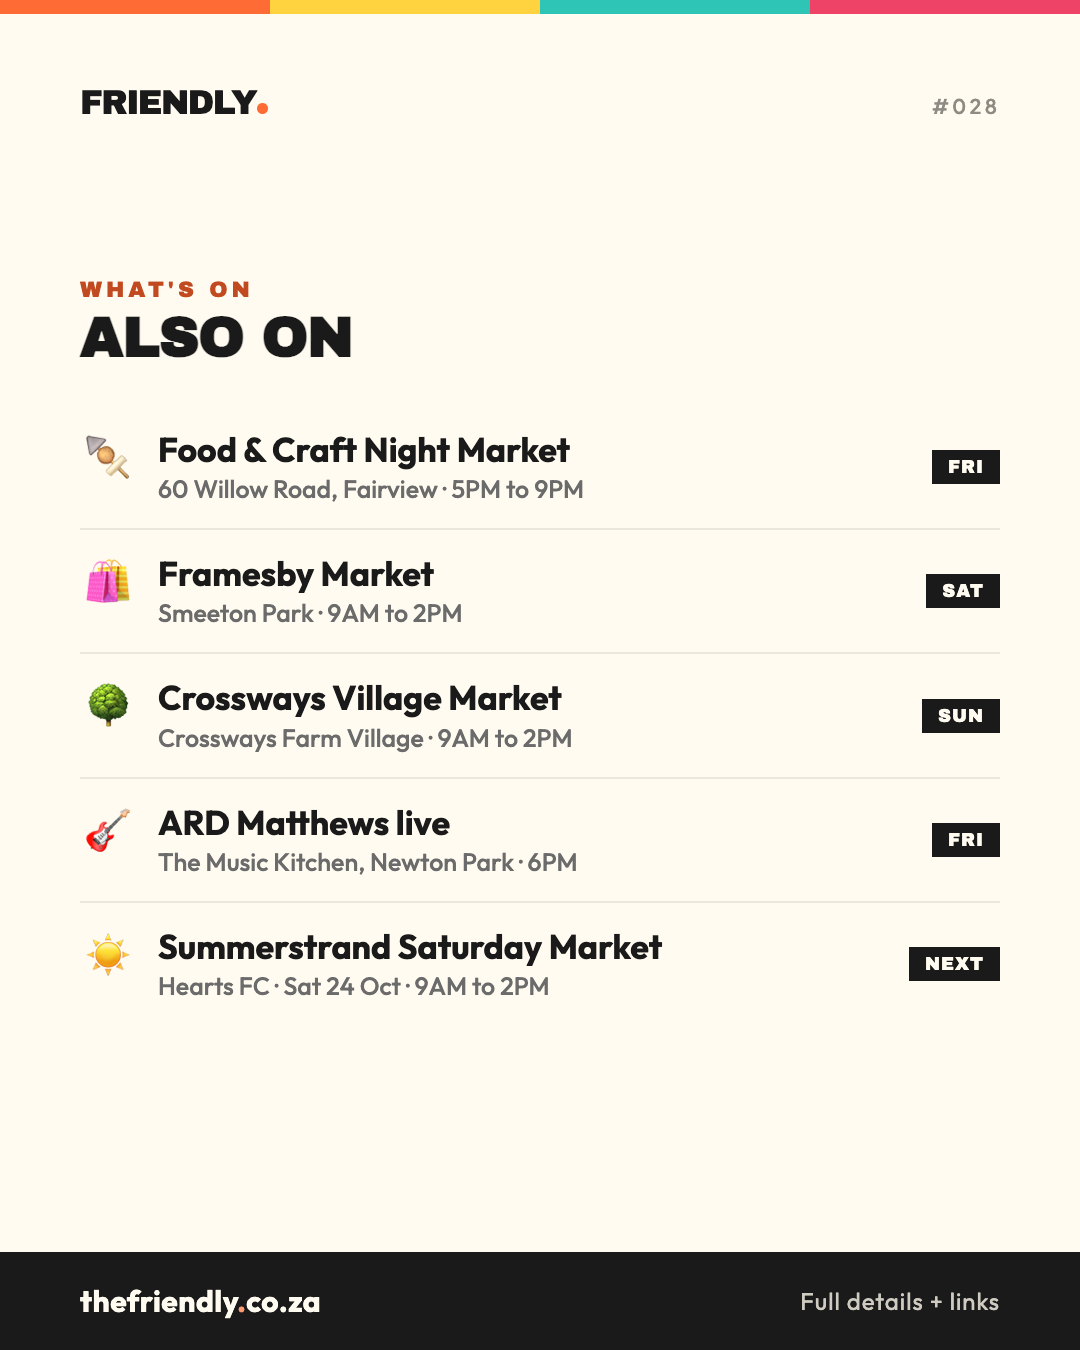
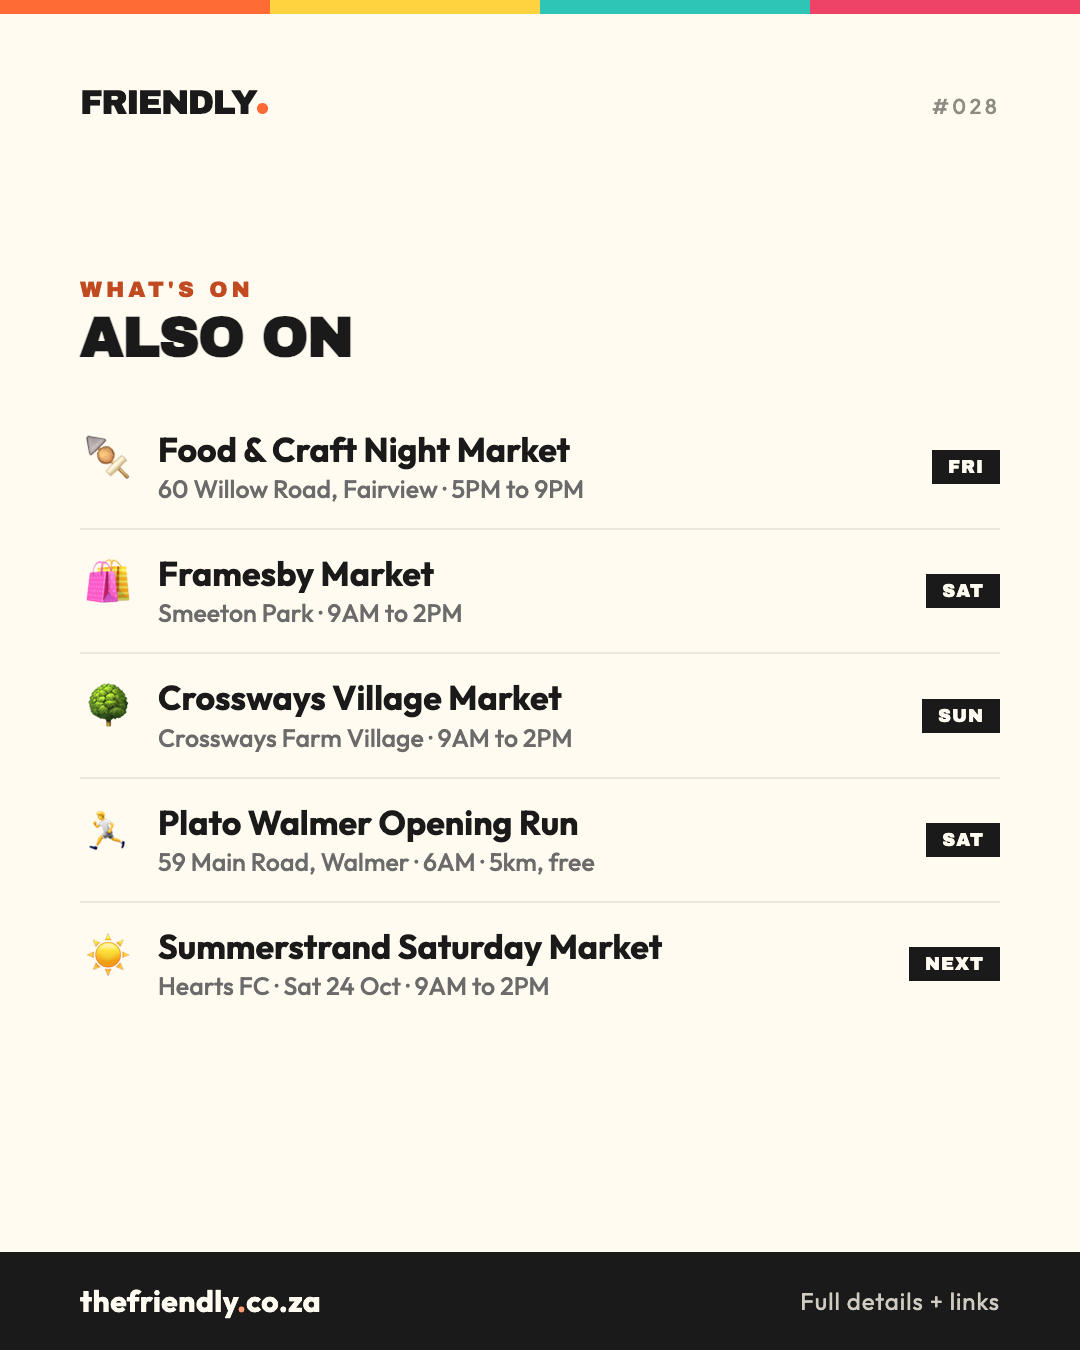
#028: add the Plato Walmer opening run and Project X
Both from Travis. Plato runs as a Saturday card, Project X as a Save The
Date with the spectator pass, since athlete entries are sold out.

Changed region(s): [[0.1528, 0.5911, 0.55, 0.6533], [0.0611, 0.5911, 0.1222, 0.6533], [0.8556, 0.5911, 0.8861, 0.6533]]

diff --git a/issue-028.html b/issue-028.html
@@ -232,7 +232,29 @@
       <span class="day-chip" style="display: inline-block; font-family: 'Archivo Black', 'Arial Black', Arial, sans-serif; font-size: 11px; letter-spacing: 2px; text-transform: uppercase; color: #FFFBF0; background-color: #1a1a1a; padding: 4px 12px;"><span aria-hidden="true">&#x1F6CD;&#xFE0F;</span> Saturday</span>
     </td>
   </tr>
-  <!-- Event: Framesby Market at Smeeton Park -->
+  <!-- Event: Plato Walmer Opening Run -->
+  <tr>
+    <td class="mobile-padding-event" style="padding: 14px 28px; border-bottom: 1px dashed #e5e5e0;">
+      <table role="presentation" cellpadding="0" cellspacing="0" border="0" width="100%">
+        <tr>
+          <td width="30" valign="top" style="padding-top: 2px; font-size: 18px; text-align: center;"><span aria-hidden="true">&#x1F3C3;</span></td>
+          <td style="padding-left: 10px;">
+            <h3 class="event-name em-on-cream" style="margin: 0; font-family: 'Outfit', -apple-system, BlinkMacSystemFont, 'Segoe UI', Roboto, Helvetica, Arial, sans-serif; font-weight: 600; font-size: 15px; color: #1a1a1a; line-height: 1.3;">Plato Walmer Opening Run</h3>
+            <p class="event-meta" style="margin: 3px 0 0; font-family: 'Outfit', -apple-system, BlinkMacSystemFont, 'Segoe UI', Roboto, Helvetica, Arial, sans-serif; font-size: 13px; color: #6B6B6B; line-height: 1.4;">Meet 6AM, run 6:30AM &middot; Plato, 59 Main Road, Walmer (next to Filthys) &middot; Free</p>
+            <p class="event-vibe" style="margin: 4px 0 0; font-family: 'Outfit', -apple-system, BlinkMacSystemFont, 'Segoe UI', Roboto, Helvetica, Arial, sans-serif; font-size: 13px; color: #C24A20; font-style: italic; line-height: 1.4;">Plato has opened a second coffee shop, in Walmer, and they're christening it with a 5km shake-out. Walkers welcome, and the first 100 through the door get a wristband for the prize draw. Coffee after, obviously.</p>
+            <table role="presentation" cellpadding="0" cellspacing="0" border="0" style="margin-top: 8px;">
+              <tr>
+                <td class="btn-orange" style="background-color: #FF6B35; border-radius: 4px; padding: 6px 12px;">
+                  <a href="https://www.instagram.com/by_apolloevents/p/DeYmsVRuA8-/" style="display: inline-block; font-family: 'Outfit', -apple-system, BlinkMacSystemFont, 'Segoe UI', Roboto, Helvetica, Arial, sans-serif; font-size: 11px; font-weight: 700; color: #1a1a1a; text-decoration: none; letter-spacing: 1px; text-transform: uppercase;">Run for the coffee &rarr;</a>
+                </td>
+              </tr>
+            </table>
+          </td>
+        </tr>
+      </table>
+    </td>
+  </tr>
+<!-- Event: Framesby Market at Smeeton Park -->
   <tr>
     <td class="mobile-padding-event" style="padding: 14px 28px;">
       <table role="presentation" cellpadding="0" cellspacing="0" border="0" width="100%">
@@ -396,6 +418,27 @@
               <tr>
                 <td class="btn-orange" style="background-color: #FF6B35; border-radius: 4px; padding: 6px 12px;">
                   <a href="https://www.instagram.com/whatsgoodinthehood_pe/p/DeZ8790MhP9/" style="display: inline-block; font-family: 'Outfit', -apple-system, BlinkMacSystemFont, 'Segoe UI', Roboto, Helvetica, Arial, sans-serif; font-size: 11px; font-weight: 700; color: #1a1a1a; text-decoration: none; letter-spacing: 1px; text-transform: uppercase;">Diary the Saturday &rarr;</a>
+                </td>
+              </tr>
+            </table>
+          </td>
+        </tr>
+      </table>
+    </td>
+  </tr>
+  <tr>
+    <td class="mobile-padding-event" style="padding: 4px 28px 22px;">
+      <table role="presentation" cellpadding="0" cellspacing="0" border="0" width="100%">
+        <tr>
+          <td width="30" valign="top" style="padding-top: 2px; font-size: 18px; text-align: center;"><span aria-hidden="true">&#x1F3CB;&#xFE0F;</span></td>
+          <td style="padding-left: 10px;">
+            <h3 class="event-name em-on-cream" style="margin: 0; font-family: 'Outfit', -apple-system, BlinkMacSystemFont, 'Segoe UI', Roboto, Helvetica, Arial, sans-serif; font-weight: 600; font-size: 15px; color: #1a1a1a; line-height: 1.3;">Project X: Apollo Events fitness comp</h3>
+            <p class="event-meta" style="margin: 3px 0 0; font-family: 'Outfit', -apple-system, BlinkMacSystemFont, 'Segoe UI', Roboto, Helvetica, Arial, sans-serif; font-size: 13px; color: #6B6B6B; line-height: 1.4;">Sat 31 Oct &middot; 7AM&ndash;5PM &middot; CrossFit Valley Road, 16D Lower Valley Road &middot; Spectators R50, under-12s free</p>
+            <p class="event-vibe" style="margin: 4px 0 0; font-family: 'Outfit', -apple-system, BlinkMacSystemFont, 'Segoe UI', Roboto, Helvetica, Arial, sans-serif; font-size: 13px; color: #C24A20; font-style: italic; line-height: 1.4;">A full-day team fitness competition and every athlete spot is already sold out, which tells you something. Go and shout: spectator passes are R50 and kids under 12 get in free.</p>
+            <table role="presentation" cellpadding="0" cellspacing="0" border="0" style="margin-top: 8px;">
+              <tr>
+                <td class="btn-orange" style="background-color: #FF6B35; border-radius: 4px; padding: 6px 12px;">
+                  <a href="https://apollo-events.co.za/event/project-x/" style="display: inline-block; font-family: 'Outfit', -apple-system, BlinkMacSystemFont, 'Segoe UI', Roboto, Helvetica, Arial, sans-serif; font-size: 11px; font-weight: 700; color: #1a1a1a; text-decoration: none; letter-spacing: 1px; text-transform: uppercase;">Get a spectator pass &rarr;</a>
                 </td>
               </tr>
             </table>

diff --git a/card-source/issue-028-cards.html b/card-source/issue-028-cards.html
@@ -237,7 +237,7 @@
           <div class="row"><span class="em">🍢</span><span class="txt"><span class="nm">Food &amp; Craft Night Market</span><span class="dt">60 Willow Road, Fairview · 5PM to 9PM</span></span><span class="day">Fri</span></div>
           <div class="row"><span class="em">🛍</span><span class="txt"><span class="nm">Framesby Market</span><span class="dt">Smeeton Park · 9AM to 2PM</span></span><span class="day">Sat</span></div>
           <div class="row"><span class="em">🌳</span><span class="txt"><span class="nm">Crossways Village Market</span><span class="dt">Crossways Farm Village · 9AM to 2PM</span></span><span class="day">Sun</span></div>
-          <div class="row"><span class="em">🎸</span><span class="txt"><span class="nm">ARD Matthews live</span><span class="dt">The Music Kitchen, Newton Park · 6PM</span></span><span class="day">Fri</span></div>
+          <div class="row"><span class="em">🏃</span><span class="txt"><span class="nm">Plato Walmer Opening Run</span><span class="dt">59 Main Road, Walmer · 6AM · 5km, free</span></span><span class="day">Sat</span></div>
           <div class="row"><span class="em">☀</span><span class="txt"><span class="nm">Summerstrand Saturday Market</span><span class="dt">Hearts FC · Sat 24 Oct · 9AM to 2PM</span></span><span class="day">Next</span></div>
         </div>
       </div>

diff --git a/card-source/issue-028-captions.md b/card-source/issue-028-captions.md
@@ -10,6 +10,7 @@ There's a market on every day this weekend. 🏇
 🛍 Framesby's first market at Smeeton Park, Saturday 9AM to 2PM
 🌳 Crossways Village Market is back under the gums, Sunday 9AM to 2PM
 👕 Filthys Monthly Market with a ThriftGQ rail, Sunday noon to 5PM
+🏃 Plato Walmer's opening run, Saturday 6AM, 5km, free, coffee after
 
 Full issue + links → thefriendly.co.za/latest?utm_source=whatsapp
 
@@ -28,6 +29,8 @@ There's a market on every day this weekend. 🏇
 🌳 Crossways Village Market, Sunday 9AM to 2PM, exit 707 off the N2. Free entry,
    weather permitting.
 👕 Filthys Monthly Market, Sunday 12PM to 5PM, 55 Main Road, Walmer.
+🏃 Plato Walmer Opening Run, Saturday, meet 6AM for a 6:30 start, 59 Main
+   Road Walmer. 5km, walkers welcome, first 100 get a prize wristband.
 
 Free, every Thursday. Link in bio.
 
